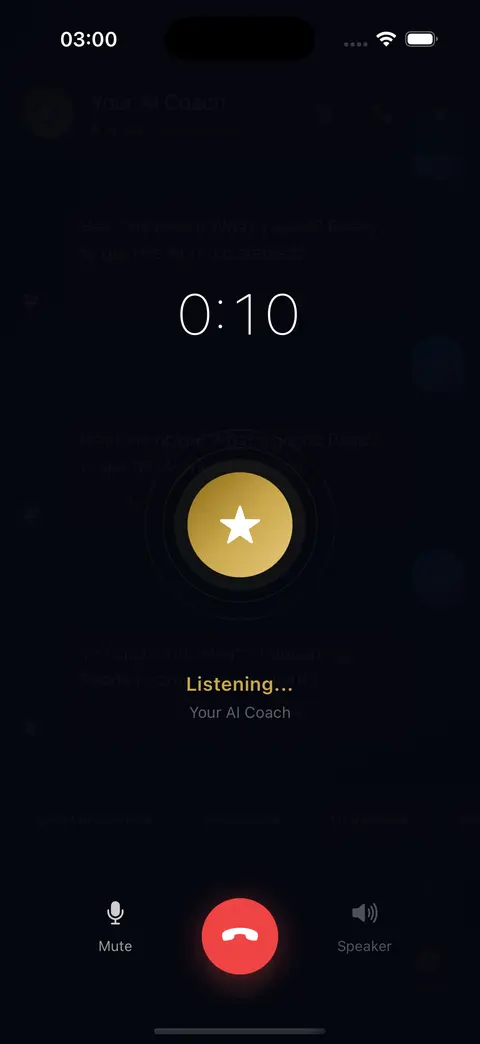
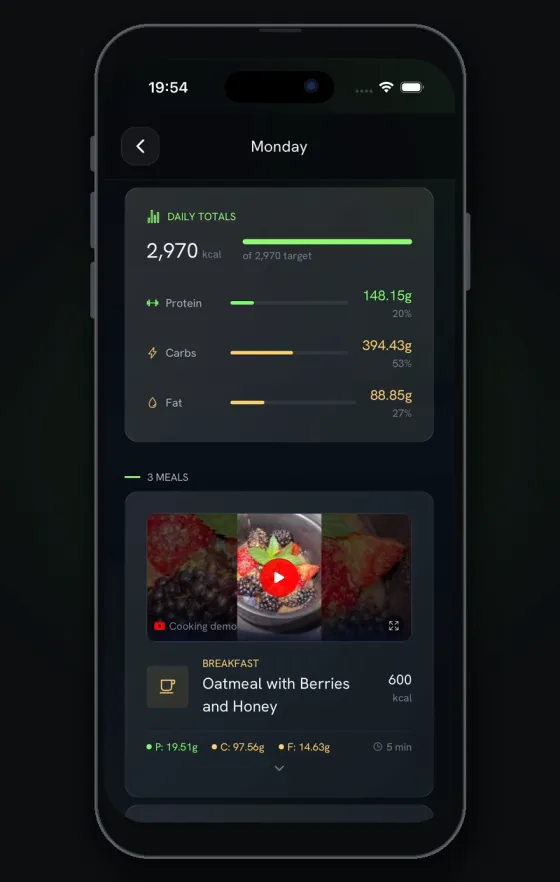
Fix unrelated homepage preview images on first load (#121)
* Fix stale homepage preview flash on first load

* Use matching versioned stills throughout preview startup

---------

diff --git a/src/components/Hero.tsx b/src/components/Hero.tsx
@@ -1,6 +1,7 @@
 import { useEffect, useState } from 'react';
 import { motion } from '../lib/motion';
 import { ArrowRight, CheckCircle2, MessageSquare, Dumbbell } from 'lucide-react';
+import heroPreviewMedia from '../content/hero-preview-media.json';
 
 export default function Hero() {
   const [activeVideo, setActiveVideo] = useState<'chat' | 'workout'>('chat');
@@ -23,7 +24,8 @@ export default function Hero() {
     };
   }, []);
 
-  const previewImage = activeVideo === 'chat' ? '/images/hero1-desktop.webp' : '/images/hero2-desktop.webp';
+  const previewMedia = heroPreviewMedia[activeVideo === 'chat' ? 0 : 1];
+  const previewImage = `${previewMedia.posterPath}?v=${previewMedia.posterSha256.slice(0, 12)}`;
   const previewAlt =
     activeVideo === 'chat'
       ? 'IZEM AI coach chat interface preview'
@@ -70,8 +72,9 @@ export default function Hero() {
                   <video
                     data-izem-hero-preview="true"
                     key={activeVideo}
-                    src={activeVideo === 'chat' ? '/videos/izem-coach-chat-dark-web.mp4' : '/videos/izem-workout-nutrition-dark-web.mp4'}
+                    src={previewMedia.videoPath}
                     poster={previewImage}
+                    aria-label={previewAlt}
                     autoPlay
                     loop
                     muted
